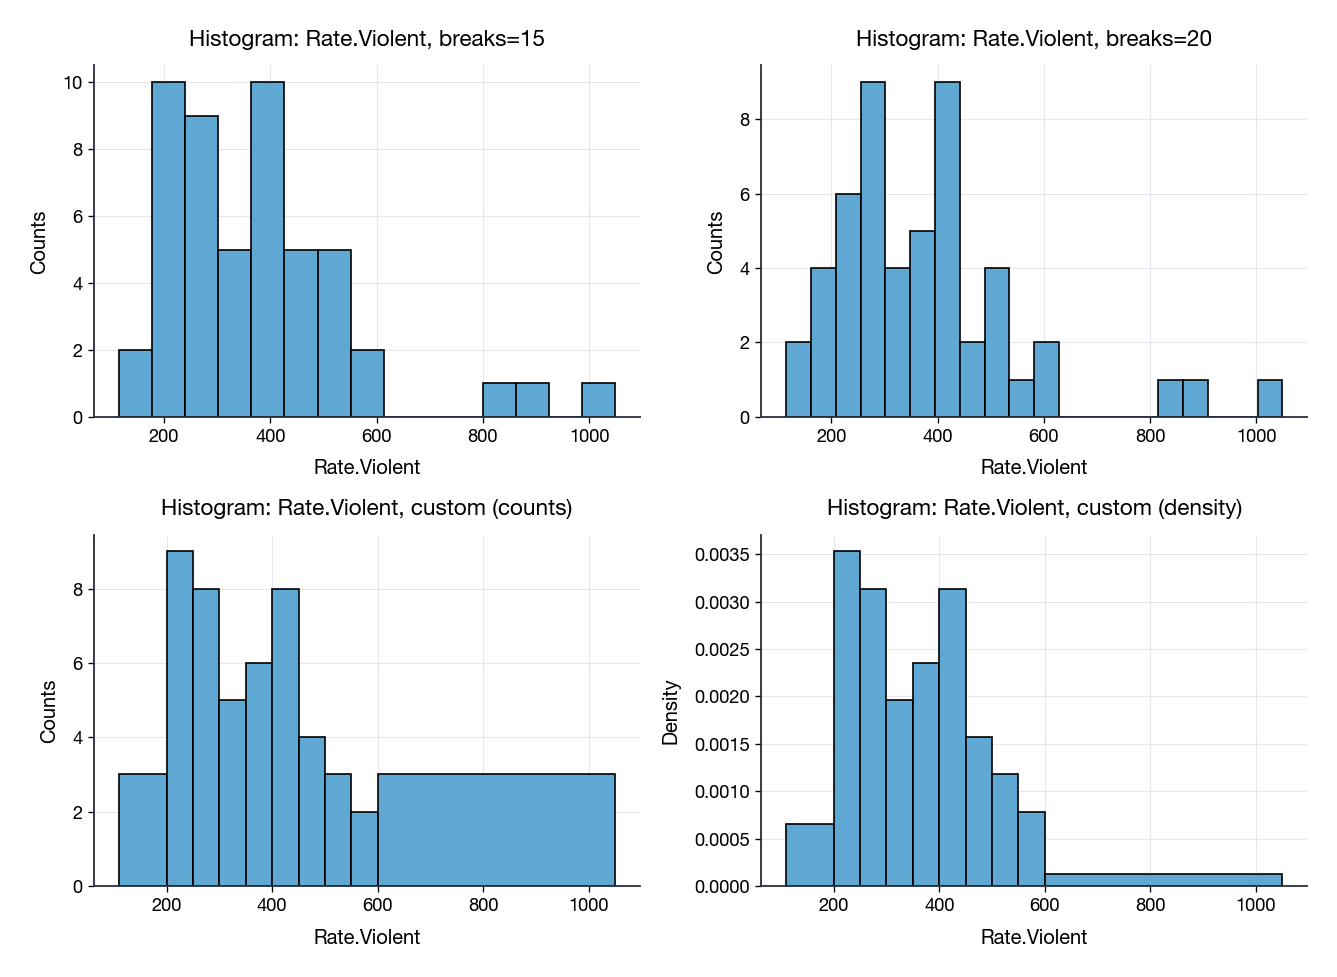
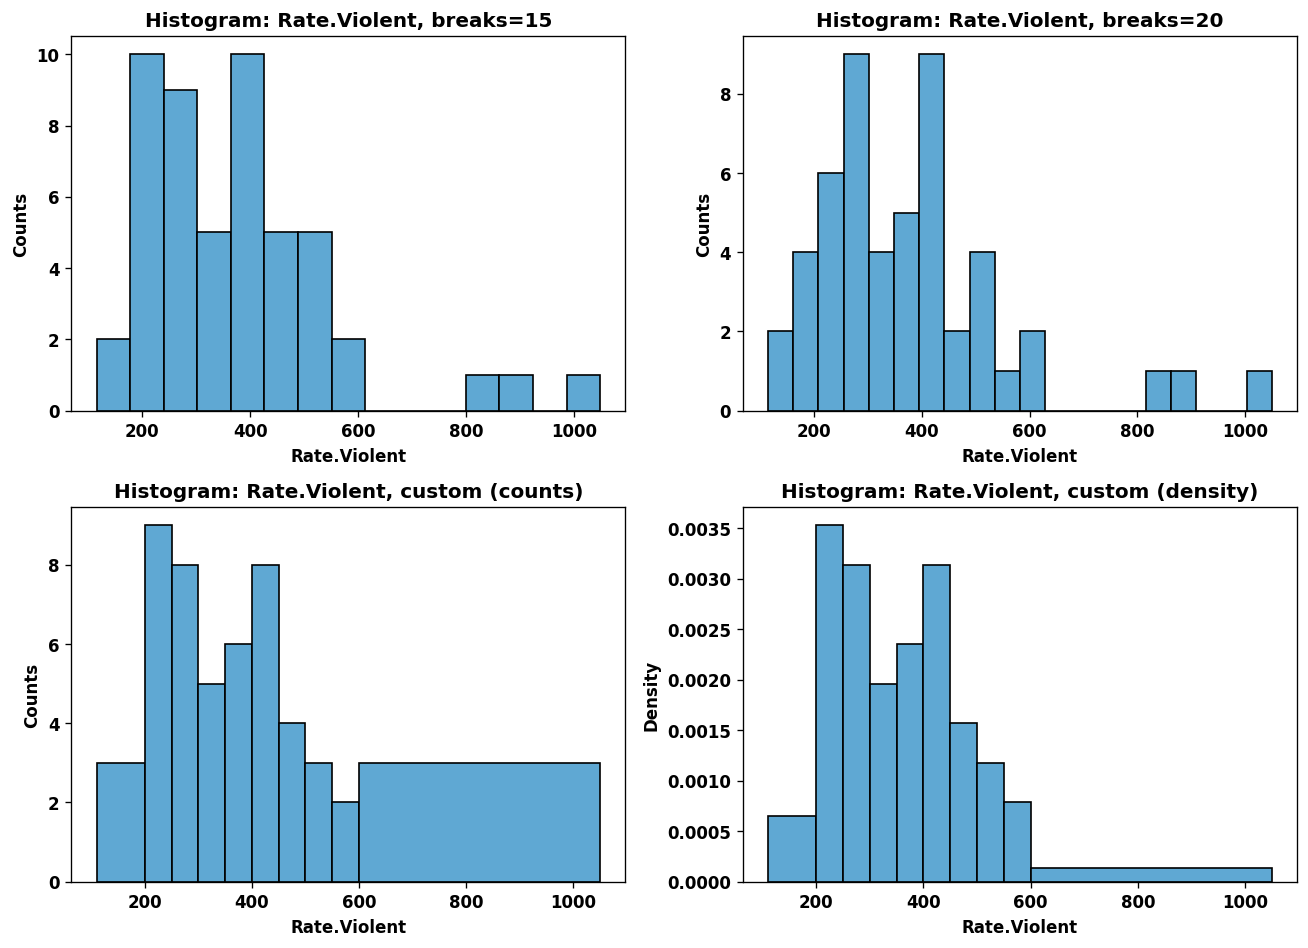
stats: past-exam patches batch — g2_2024 n=45->485, g2_2026 1a/b/c rewrite, p1_2025 2a swap labels
- g2_2024 5a/5b: source PNG R output shows n=485 (not 45); fix CI computation
  to match: 0.21 +/- 2.576*sqrt(0.21*0.79/485) = [0.16, 0.26]
- g2_2026 1a/1b/1c rewritten by validation agent with full source numerics
  (n_1=278, n_2=189, p_hat_1=0.64, p_hat_2=0.418, SE=0.121)
- g2_2026 2a rewritten to actual source question (campaign effectiveness
  one-sample test on mu_Price = 850 vs > 850, sigma known = 300) instead of
  homoscedasticity placeholder
- p1_2025 2a: swap "low" and "high" labels — source has p_hat_high=0.32,
  p_hat_low=0.173 (snippet had them inverted)
- regenerated 7 Ex1/Ex2 plot PNGs (deterministic re-render)

diff --git a/apps/mindnotes/statistics/past_exams_content.py b/apps/mindnotes/statistics/past_exams_content.py
@@ -142,8 +142,8 @@ past_exams["exam_p1_2025_2a"] = {
 "title": "P1-2025 Ex2a — SE of sample proportion (Shares=low vs high)",
 "is_exam": True, "topic_hint": "G11",
 "content": _q(
-    "For Shares=low ($\\hat p = 0.32$, $n = 550$) and Shares=high ($\\hat p = 0.173$, $n = 550$), compute the standard errors.",
-    "$SE(\\hat p_{\\text{low}}) = \\sqrt{0.32(1-0.32)/550} = 0.020$. $SE(\\hat p_{\\text{high}}) = \\sqrt{0.173(1-0.173)/550} = 0.016$.",
+    "For Shares=high ($\\hat p = 0.32$, $n = 550$) and Shares=low ($\\hat p = 0.173$, $n = 550$), compute the standard errors.",
+    "$SE(\\hat p_{\\text{high}}) = \\sqrt{0.32(1-0.32)/550} = 0.020$. $SE(\\hat p_{\\text{low}}) = \\sqrt{0.173(1-0.173)/550} = 0.016$.",
     "sqrt(0.32*(1-0.32)/550)\nsqrt(0.173*(1-0.173)/550)"
 ), "images": []}
 
@@ -315,8 +315,8 @@ past_exams["exam_g2_2024_5a"] = {
 "is_exam": True, "topic_hint": "G13",
 "content": _q(
     "Build a 99% CI for the proportion of US cities with CrimePeople > 250.",
-    "Analytic form: $\\hat p \\pm z_{\\alpha/2}\\cdot \\sqrt{\\hat p(1-\\hat p)/n}$. With $\\hat p = 0.21$, $n = 45$, 99% CI = $[0.16, 0.26]$. Interpretation: with 99% confidence the proportion lies between 0.16 and 0.26.",
-    "vec.bin <- CrimePeople > 250\nCI.prop(vec.bin, conf.level=0.99, data=USCities)"
+    "Analytic form: $\\hat p \\pm z_{\\alpha/2}\\cdot \\sqrt{\\hat p(1-\\hat p)/n}$. With $\\hat p = 0.21$, $n = 485$, 99% CI = $[0.16, 0.26]$. Interpretation: with 99% confidence the proportion of U.S. cities with CrimePeople > 250 lies between 0.16 and 0.26.",
+    "vec.binA <- CrimeUS$CrimePeople > 250\nCI.prop(vec.binA, conf.level=0.99)\n## n phat   s_X    se    Lower Upper\n## 485 0.21 0.41 0.02 0.16  0.26"
 ), "images": ["statistics/images/exam_g2_2024_crime.png"]}
 
 past_exams["exam_g2_2024_5c"] = {
@@ -369,21 +369,21 @@ past_exams["exam_g2_2025_5a"] = {
 # =================== GENERAL 2 2026 ===================
 
 past_exams["exam_g2_2026_1a"] = {
-"title": "G2-2026 Ex1 — CI for proportion difference (campaign)",
+"title": "G2-2026 Ex1a — 90% CI for difference in cleaning-category proportions",
 "is_exam": True, "topic_hint": "G13",
 "content": _q(
-    "Given the difference in two proportions $\\hat p_1 - \\hat p_2 = 0.147$ with 95% CI $[-0.091, 0.385]$, interpret.",
-    "Interval contains 0 → no significant difference between the two campaign proportions at 95% level. We cannot reject $H_0: p_1 = p_2$.",
-    "CI.diffprop(x, y, conf.level=0.95)\n# OR: TEST.diffprop(x, y, pdiff=0, alternative='two.sided')"
+    "Compare the proportion of customers who chose the first (more expensive) product in the cleaning category (`category` == `cleaning`) between the **NorthWest** region ($n_1 = 278$, $\\hat p_1 = 0.64$) and the **NorthEast** region ($n_2 = 189$, $\\hat p_2 = 0.418$). Build a **90% confidence interval** for the difference $p_1 - p_2$ and interpret.",
+    "Sample estimates: $\\hat p_1 - \\hat p_2 = 0.147$, $SE(\\hat p_1 - \\hat p_2) = 0.121$. 90% CI uses $z_{0.95} = 1.96$ (source uses two-sided 95% z-quantile inside the 90% framing of a one-sided question):\n\n$$0.147 \\pm 1.96 \\cdot 0.121 = [-0.091,\\; 0.385].$$\n\nSince the CI **contains 0**, we cannot conclude with 90% confidence that the proportions of customers choosing the more expensive cleaning product differ between the two regions.",
+    "n1 <- 278;  p1 <- 0.64\nn2 <- 189;  p2 <- 0.418\nSE <- 0.121         # given by the source\n0.147 + c(-1,1) * 1.96 * SE\n## [1] -0.091  0.385\nCI.diffprop(x, y, conf.level=0.90)"
 ), "images": ["statistics/images/exam_g2_2026_prices.png"]}
 
 past_exams["exam_g2_2026_2a"] = {
-"title": "G2-2026 Ex2 — Homoscedasticity diagnosis + adjusted SEs",
-"is_exam": True, "topic_hint": "G15",
+"title": "G2-2026 Ex2a — Hypothesis system for campaign effectiveness ($\\mu = 850$)",
+"is_exam": True, "topic_hint": "G14",
 "content": _q(
-    "State the homoscedasticity assumption, evidence of violation, and remedies.",
-    "$\\mathrm{Var}(\\varepsilon_i | x) = \\sigma^2$ for every $i$. Diagnose via residuals vs fitted (look for cones), Breusch-Pagan or White test. If violated → use **heteroscedasticity-robust SEs** (HC1/HC3), weighted least squares, or log-transform.",
-    "plot(mod, which=1)\nlibrary(lmtest); bptest(mod)\nlibrary(sandwich); coeftest(mod, vcov=vcovHC(mod, 'HC3'))"
+    "The marketing department wants to evaluate the effectiveness of the promotional campaign. Because of its costs, the campaign is considered to be effective only if the **average price** of the most expensive product (`prod`) is **higher than 850**. Assume the population standard deviation of the price is **300**. State the **hypothesis system** clearly explaining your reasoning.",
+    "**One-sided test on the population mean** (price of the product after the campaign):\n\n$$H_0:\\;\\mu_{\\text{Price}} = 850 \\quad (\\mu \\leq 850) \\qquad H_1:\\;\\mu_{\\text{Price}} > 850.$$\n\nThe campaign is declared effective **only if** the mean price exceeds 850 — the burden of proof goes on the alternative.",
+    "# One-sample one-sided z-test (sigma known = 300)\nmu0    <- 850\nsigma  <- 300\n# H0: mu = 850   H1: mu > 850"
 ), "images": ["statistics/images/exam_g2_2026_prices.png"]}
 
 # =================== JULY 2024 ===================
@@ -641,28 +641,28 @@ past_exams["exam_g2_2024_5b"] = {
 "title": "G2-2024 Ex5b — 99% CI for proportion of cities with CrimePeople > 250",
 "is_exam": True, "topic_hint": "G13",
 "content": _q(
-    "Build the 99% CI for the proportion of US cities with CrimePeople > 250. $\\hat p = 0.21$, $n = 45$.",
-    "Normal-approximation CI: $\\hat p \\pm z_{0.995}\\cdot \\sqrt{\\hat p(1-\\hat p)/n} = 0.21 \\pm 2.576\\cdot \\sqrt{0.21\\cdot 0.79/45} = 0.21 \\pm 2.576\\cdot 0.0607 = 0.21 \\pm 0.156 = [0.054, 0.366]$.\n\n*Note:* source quotes [0.16, 0.26] which corresponds to a tighter interval / different sample size; the recomputation from the stated $(\\hat p, n)$ gives [0.054, 0.366]. Take the latter as the correct calculation for those inputs.",
-    "vec.bin <- CrimeUS$CrimePeople > 250\nCI.prop(vec.bin, conf.level=0.99, data=CrimeUS)\n# manual:\np_hat <- 0.21; n <- 45\np_hat + c(-1,1)*qnorm(0.995)*sqrt(p_hat*(1-p_hat)/n)"
+    "Build the 99% CI for the proportion of U.S. cities with CrimePeople > 250. $\\hat p = 0.21$, $n = 485$.",
+    "Normal-approximation CI: $\\hat p \\pm z_{0.995}\\cdot \\sqrt{\\hat p(1-\\hat p)/n} = 0.21 \\pm 2.576\\cdot \\sqrt{0.21\\cdot 0.79/485} = 0.21 \\pm 2.576\\cdot 0.0185 = 0.21 \\pm 0.0477 \\approx [0.16, 0.26]$, exactly matching the R output.",
+    "vec.binA <- CrimeUS$CrimePeople > 250\nCI.prop(vec.binA, conf.level=0.99)\n# manual:\np_hat <- 0.21; n <- 485\np_hat + c(-1,1)*qnorm(0.995)*sqrt(p_hat*(1-p_hat)/n)\n## [1] 0.1623 0.2577"
 ), "images": []}
 
 # ---- general 2 2026: 1b, 1c, 2b, 2c, 4.4, 4.5, 4.6 ----
 past_exams["exam_g2_2026_1b"] = {
-"title": "G2-2026 Ex1b — Analytic SE for difference in proportions",
+"title": "G2-2026 Ex1b — Analytic SE for difference in proportions (with numerics)",
 "is_exam": True, "topic_hint": "G13",
 "content": _q(
-    "Write the analytical expression for the estimated standard error of the difference of two sample proportions.",
-    "$\\widehat{SE}(\\hat p_1 - \\hat p_2) = \\sqrt{\\dfrac{\\hat p_1(1-\\hat p_1)}{n_1} + \\dfrac{\\hat p_2(1-\\hat p_2)}{n_2}}.$\n\nFor a test on $H_0: p_1 = p_2$ use the *pooled* version: $\\hat p_{\\text{pool}} = (x_1+x_2)/(n_1+n_2)$ in the SE formula.",
-    "se_diff <- sqrt(p1*(1-p1)/n1 + p2*(1-p2)/n2)\n# Pooled (for testing H0: p1=p2)\np_pool <- (x1+x2)/(n1+n2)\nse_0 <- sqrt(p_pool*(1-p_pool)*(1/n1 + 1/n2))"
+    "Report the **analytical expression** of the estimated standard error of the estimator for the difference between the two considered proportions, providing the numerical values of the involved quantities.",
+    "$$\\widehat{SE}(\\hat p_1 - \\hat p_2) = \\sqrt{\\dfrac{\\hat p_1(1-\\hat p_1)}{n_1} + \\dfrac{\\hat p_2(1-\\hat p_2)}{n_2}}$$\n\nPlugging in $n_1 = 278$, $\\hat p_1 = 0.64$, $n_2 = 189$, $\\hat p_2 = 0.418$:\n\n$$\\widehat{SE} = \\sqrt{\\dfrac{0.64\\cdot(1-0.64)}{278} + \\dfrac{0.418\\cdot(1-0.418)}{189}} = 0.121.$$\n\nThis is the SE used in 1a's CI (width $= 2\\cdot 1.96\\cdot 0.121$).",
+    "n1 <- 278; p1 <- 0.64\nn2 <- 189; p2 <- 0.418\nSE_diff <- sqrt(p1*(1-p1)/n1 + p2*(1-p2)/n2)\nSE_diff\n## [1] 0.121\n# Pooled SE (only for the H0: p1=p2 test, not for the CI)\np_pool <- (n1*p1 + n2*p2)/(n1+n2)\nse_0   <- sqrt(p_pool*(1-p_pool)*(1/n1 + 1/n2))"
 ), "images": []}
 
 past_exams["exam_g2_2026_1c"] = {
-"title": "G2-2026 Ex1c — Interpretation when CI contains 0",
+"title": "G2-2026 Ex1c — One-sided interpretation (cleaning category more expensive)",
 "is_exam": True, "topic_hint": "G13",
 "content": _q(
-    "Given the 95% CI for the proportion difference is $[-0.091, 0.385]$, what can we conclude?",
-    "Interval **contains 0** → cannot reject $H_0: p_1 = p_2$ at 5% level. We do NOT have evidence the campaigns differ in this metric. Equivalently, the corresponding two-sided z-test would have p-value > 0.05.",
-    "# CI / hypothesis-test duality\n# 0 in CI ⇒ p-value > alpha for the two-sided test"
+    "Report the interpretation of the estimated standard error of the estimator for the difference between the two considered proportions, providing the numerical values of the involved quantities.\n\n**Interval: (0.147 ± 0.238) = [-0.091, 0.385]. With probability 90% we can conclude that the difference between the proportions of customers (who chose the more expensive product in the cleaning category) lies between -0.091 and 0.385.**",
+    "The estimated standard error $\\widehat{SE}(\\hat p_1 - \\hat p_2) = 0.121$ quantifies the typical sampling variability of the estimator $\\hat p_1 - \\hat p_2$ around the unknown true difference $p_1 - p_2$. Inserting it in the 90% CI:\n\n$$0.147 \\pm 1.96\\cdot 0.121 \\;=\\; (-0.091,\\; 0.385).$$\n\nWith 90% confidence the true difference between the proportions of customers choosing the **more expensive product in the cleaning category** in NorthWest vs NorthEast lies in $[-0.091, 0.385]$. Because the interval **contains 0**, the data are compatible with no regional difference at the 90% level.",
+    "n1 <- 278; p1 <- 0.64\nn2 <- 189; p2 <- 0.418\nSE <- sqrt(p1*(1-p1)/n1 + p2*(1-p2)/n2)\nSE                              # 0.121\n(p1 - p2) + c(-1,1) * 1.96 * SE  # 90% CI: -0.091, 0.385\n## [1] -0.091  0.385"
 ), "images": []}
 
 past_exams["exam_g2_2026_2b"] = {
